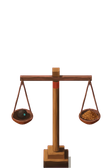
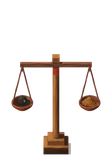
feat: the scale stands higher in its cell
Claude-Session: https://claude.ai/code/session_01F6g2diRzQCzQwEf9zsEEGH

Changed region(s): [[0.0804, 0.2976, 0.9107, 0.744], [0.375, 0.7738, 0.6429, 1.0]]

diff --git a/scripts/importTile.ts b/scripts/importTile.ts
@@ -68,6 +68,7 @@
  *   --trim           trim the keyed background away and scale the object to fill the slot, keeping its
  *                    aspect. For a WALL item, whose frame IS its placement: a return with air round the
  *                    object leaves that air in the band and reads as a sticker stuck on the wall.
+ *   --lift=0.08      (prop) raise the object off the floor line by this fraction of its frame height.
  *   --no-trim        keep the frame as generated instead of re-seating the object on the floor line.
  *                    On an arch it skips the trim that discards everything around the timber.
  *   --cells=2x1      (prop) the prop covers COLS x ROWS cells, east across and south deep, so its slot is
@@ -529,7 +530,7 @@ const applyGamma = async (input: Buffer, exponent: number): Promise<Buffer> => {
     .toBuffer()
 }
 
-const seatOnFloorLine = async (img: sharp.Sharp, aspect: number, scale: number): Promise<sharp.Sharp> => {
+const seatOnFloorLine = async (img: sharp.Sharp, aspect: number, scale: number, lift: number): Promise<sharp.Sharp> => {
   // Encoded, not raw: `composite` needs an image it can parse, and a sharp instance built from a raw
   // buffer has no format of its own to fall back on.
   const trimmed = await img.trim({ threshold: 1 }).png().toBuffer({ resolveWithObject: true })
@@ -544,7 +545,13 @@ const seatOnFloorLine = async (img: sharp.Sharp, aspect: number, scale: number):
   const seated = await sharp({
     create: { width: frameW, height: frameH, channels: 4, background: { r: 0, g: 0, b: 0, alpha: 0 } },
   })
-    .composite([{ input: trimmed.data, left: Math.round((frameW - width) / 2), top: frameH - height }])
+    .composite([
+      {
+        input: trimmed.data,
+        left: Math.round((frameW - width) / 2),
+        top: Math.max(0, frameH - height - Math.round(frameH * lift)),
+      },
+    ])
     .png()
     .toBuffer()
   return sharp(seated)
@@ -604,7 +611,7 @@ const main = async (): Promise<void> => {
     img = sharp(ink.data)
   }
   if (seat && !tight && !process.argv.includes("--no-trim"))
-    img = await seatOnFloorLine(img, w / h, Number(arg("scale", "1")))
+    img = await seatOnFloorLine(img, w / h, Number(arg("scale", "1")), Number(arg("lift", "0")))
   // `--trim` is the positive of `--no-trim`, for the slots that never trim at all.
   //
   // A prop's frame is thrown away and its object re-seated; a WALL item's frame IS its placement, so a
